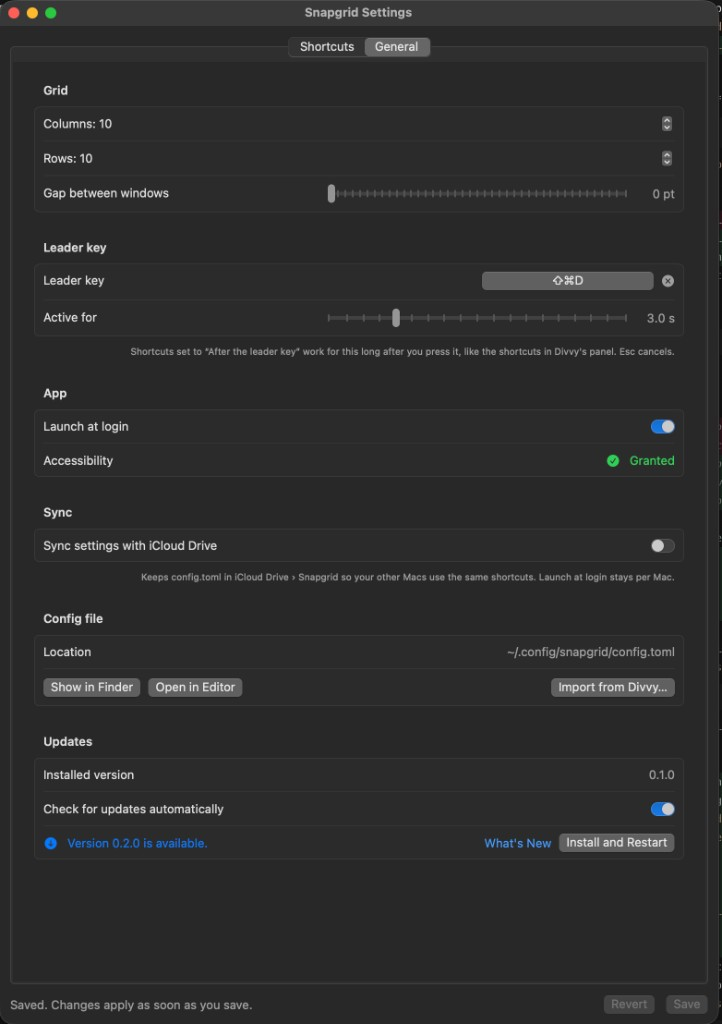
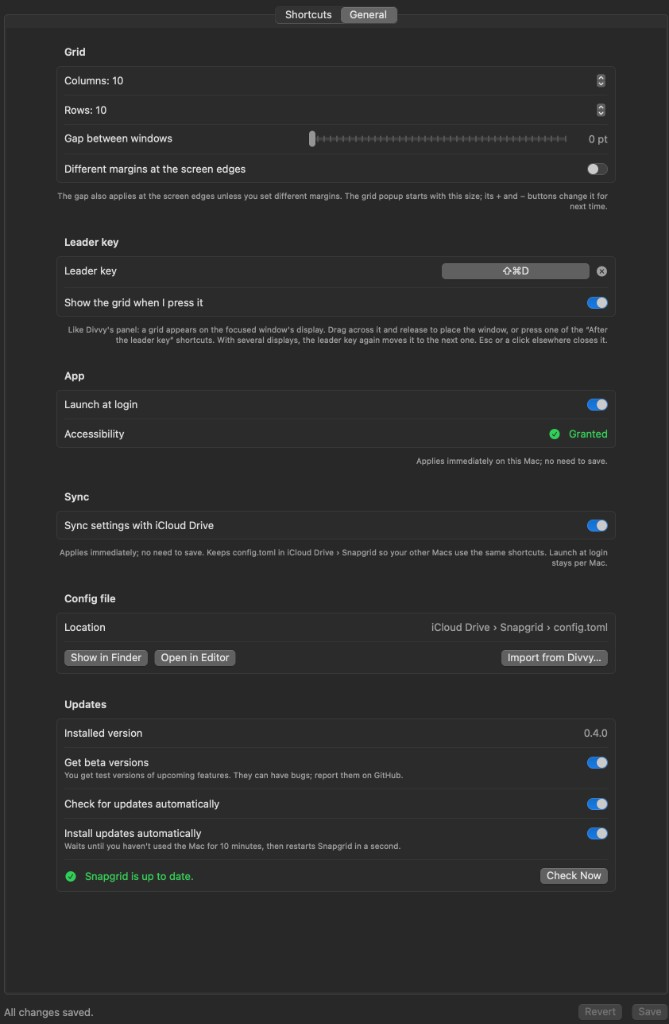
README: grid panel screenshot and current General settings

diff --git a/README.md b/README.md
@@ -23,8 +23,11 @@ Divvy was the best grid window manager on the Mac, but it appears to be no longe
 ## Screenshots
 
 <p align="center">
+  <img src="docs/screenshots/grid-panel.png" width="430" alt="Grid panel after the leader key: drag across the grid to place the window, + and − change columns and rows">
+</p>
+<p align="center">
   <img src="docs/screenshots/settings-shortcuts.png" width="420" alt="Settings: shortcut list with a Divvy-style grid picker">
-  <img src="docs/screenshots/settings-general.png" width="420" alt="Settings: grid, leader key, launch at login, iCloud sync and updates">
+  <img src="docs/screenshots/settings-general.png" width="420" alt="Settings: grid, margins, leader key, launch at login, iCloud sync, config file and updates with beta versions">
 </p>
 <p align="center">
   <img src="docs/screenshots/setup-shortcuts.png" width="420" alt="Setup assistant: keep settings, import from Divvy or start with examples">
